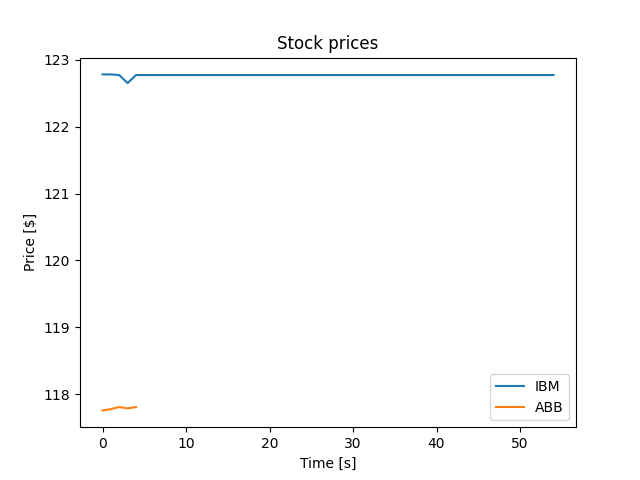
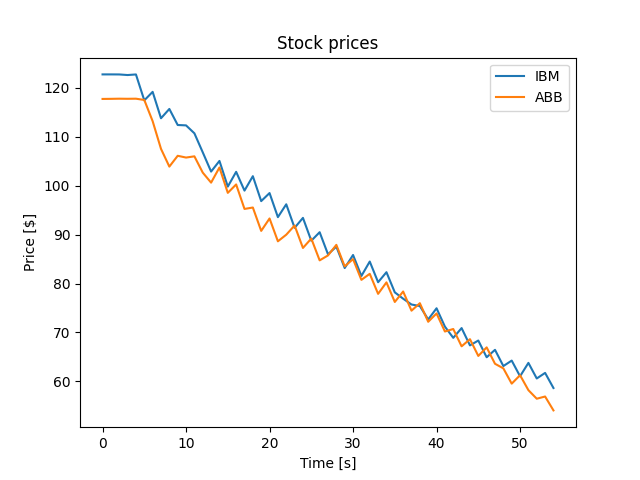
add different plots

diff --git a/src/Plot/Plot.py b/src/Plot/Plot.py
@@ -5,9 +5,27 @@ class Plot:
     @staticmethod
     def displayPlot(cb):
         for name in ["IBM", "ABB"]:
+            Plot.oneStockOnePlot(cb, name)
+        Plot.allStockOnePlot(cb)
+
+    @staticmethod
+    def allStockOnePlot(cb):
+        plt.clf()
+        for name in ["IBM", "ABB"]:
             plt.plot(cb.getPriceListing(name))
         plt.title("Stock prices")
         plt.legend(["IBM", "ABB"])
         plt.ylabel("Price [$]")
         plt.xlabel("Time [s]")
         plt.savefig("Plot/all_stock.png")
+
+    @staticmethod
+    def oneStockOnePlot(cb, stock_name):
+        plt.clf()
+        plt.plot(cb.getPriceListing(stock_name))
+        plt.title("Stock prices for " + str(stock_name))
+        plt.legend([stock_name])
+        plt.ylabel("Price [$]")
+        plt.xlabel("Time [s]")
+        plt.savefig("Plot/" + str(stock_name) + ".png")
+
